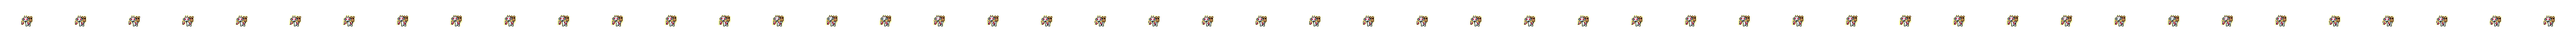
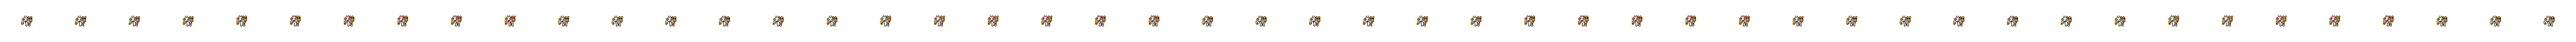
Contract-bound Orthos: Tütenkopf blinzelt, flüssigere und schnellere Bewegung
Claude-Session: https://claude.ai/code/session_01S1PZe4tVcCYjm7PV64dCdL

diff --git a/scripts/hero-animations/contract_orthos.py b/scripts/hero-animations/contract_orthos.py
@@ -11,8 +11,8 @@ Frame 0 = Ruhepose = der Sprite genau.
   Fläche (Alpha >= 160), nach der das Spiel die Figur einpasst, immer gleich.
 * gelbe Umrandung: pulsiert von 20 % bis etwa 35 % im Takt des Lichts.
 * Kyubey: federt (Kopf und Rücken heben sich um 1 px, die Beine bleiben stehen), blinzelt, beide Ohren
-  schwingen als Wellen (Reifen wandern mit).
-* Tüte: raschelt oben, die Augenlöcher glimmen rot auf.
+  schwingen als Wellen (Reifen wandern mit); alles flott (Federn 4x, Ohren 4 Zyklen pro Loop).
+* Tüte: raschelt oben, die Augenlöcher glimmen rot auf, der Kopf darunter blinzelt (2 Frames nach Kyubey).
 Aufruf (aus scripts/hero-animations):  python3 contract_orthos.py final 90
 """
 import json
@@ -57,6 +57,10 @@ BAG_PUPIL = [(y, x) for y, x in zip(*np.nonzero(BAG[:, :, 3] > 0)) if tuple(BAG[
 BAG_TOP = int(np.nonzero(BAG[:, :, 3] > 0)[0].min())
 EAR_Y = {'l': (31, 40), 'r': (30, 41)}                # Spanne der Ohren in Zeilen (Aufhängung -> Spitze)
 BLINK = {14: 'halb', 15: 'zu', 16: 'zu', 17: 'halb', 38: 'halb', 39: 'zu', 40: 'zu', 41: 'halb'}
+BAG_BLINK = {i + 2: v for i, v in BLINK.items()}      # der Tütenkopf blinzelt zwei Frames später
+HOLE = [(y, x) for y, x in zip(*np.nonzero(BAG[:, :, 3] > 0)) if tuple(BAG[y, x, :3]) in ((0, 0, 0), (112, 0, 0))]
+HOLE_ROWS = (min(y for y, _ in HOLE), max(y for y, _ in HOLE))
+BAG_FILL, BAG_LINE = (154, 106, 56, 255), (85, 59, 31, 255)
 
 
 def over(dst, src):
@@ -106,23 +110,23 @@ def shifted(layer, mask, i, spec, dy):
 
 def glow_mult(i):
     """0..1: Atmen + umlaufender Schimmer; Frame 0 = 1 (nur dunkler, nie heller als im Sprite)."""
-    breath = 1.0 - 0.16 * (1 - math.cos(2 * math.pi * 2 * i / N)) / 2
+    breath = 1.0 - 0.16 * (1 - math.cos(2 * math.pi * 4 * i / N)) / 2
     s0 = np.cos(3 * THETA - 0.13 * RAD)
-    si = np.cos(3 * THETA - 0.13 * RAD - 2 * math.pi * i / N)
+    si = np.cos(3 * THETA - 0.13 * RAD - 2 * math.pi * 2 * i / N)
     shimmer = np.minimum(1.0, 1.0 - 0.38 * (s0 - si) / 2.0)
     return np.clip(breath * shimmer, 0.0, 1.0)
 
 
 def frame(i):
     dy = int(round(0.5 + 0.5 * math.sin(2 * math.pi * i / 24 + math.pi / 2 - math.pi / 2 * 0))) if False else 0
-    k = (1 - math.cos(2 * math.pi * i / 24)) / 2                    # 0 in Frame 0, 1 nach 12 Frames
+    k = (1 - math.cos(2 * math.pi * i / 12)) / 2                    # 0 in Frame 0, 1 nach 12 Frames
     dy = 1 if k > 0.5 else 0
     out = np.zeros((H, W, 4), int)
     g = GLOW.copy()
     g[:, :, 3] = np.rint(GLOW[:, :, 3] * glow_mult(i)).astype(int)
     out = over(out, g)
     a = AURA.copy()
-    pulse = (1 - math.cos(2 * math.pi * 2 * i / N)) / 2
+    pulse = (1 - math.cos(2 * math.pi * 4 * i / N)) / 2
     a[:, :, 3] = int(round(AURA_A * (1 + 0.7 * pulse))) * (AURA[:, :, 3] > 0)
     out = over(out, a)
     # Kyubey: Ohr (hinter dem Kopf), dann Körper
@@ -140,12 +144,12 @@ def frame(i):
                     rest[y, x] = FUR_LIGHT
     ear_l = bob(ear_l, dy)
     ear_mask = ear_l[:, :, 3] > 0
-    ear_l = shifted(ear_l, ear_mask, i, (EAR_Y['l'][0] - dy, EAR_Y['l'][1] - dy, 1.9, 2, 0.0, -2, 1), dy)
+    ear_l = shifted(ear_l, ear_mask, i, (EAR_Y['l'][0] - dy, EAR_Y['l'][1] - dy, 2.4, 4, 0.0, -2, 1), dy)
     out = over(out, ear_l)
     out = over(out, bob(rest, dy))
     # Papiertüte
     bag = bob(BAG, dy)
-    flap = int(round(math.sin(2 * math.pi * 3 * i / N))) if i else 0
+    flap = int(round(math.sin(2 * math.pi * 6 * i / N))) if i else 0
     if flap:
         top = bag.copy()
         for y in range(BAG_TOP - dy, BAG_TOP - dy + 2):
@@ -154,16 +158,24 @@ def frame(i):
                 if 0 <= x - flap < W:
                     top[y, x] = bag[y, x - flap]
         bag = top
-    pupil_glow = (i % 12) in (3, 4, 5, 6)
+    pupil_glow = (i % 6) in (2, 3)
     if pupil_glow:
         for y, x in BAG_PUPIL:
             yy = y - dy if dy and y < HEAD_BOTTOM else y
             bag[yy, x] = (208, 16, 60, 255)
+    bst = BAG_BLINK.get(i)
+    if bst:
+        for y, x in HOLE:
+            yy = y - dy if dy and y < HEAD_BOTTOM else y
+            if bst == 'zu':
+                bag[yy, x] = BAG_LINE if y == HOLE_ROWS[1] else BAG_FILL
+            elif y == HOLE_ROWS[0]:
+                bag[yy, x] = BAG_FILL
     out = over(out, bag)
     # rechtes Ohr (vor der Tüte)
     er = bob(EAR, dy)
     emask = er[:, :, 3] > 0
-    er = shifted(er, emask, i, (EAR_Y['r'][0] - dy, EAR_Y['r'][1] - dy, 1.5, 2, 1.7, -1, 1), dy)
+    er = shifted(er, emask, i, (EAR_Y['r'][0] - dy, EAR_Y['r'][1] - dy, 1.8, 4, 1.7, -1, 1), dy)
     out = over(out, er)
     return out
 
